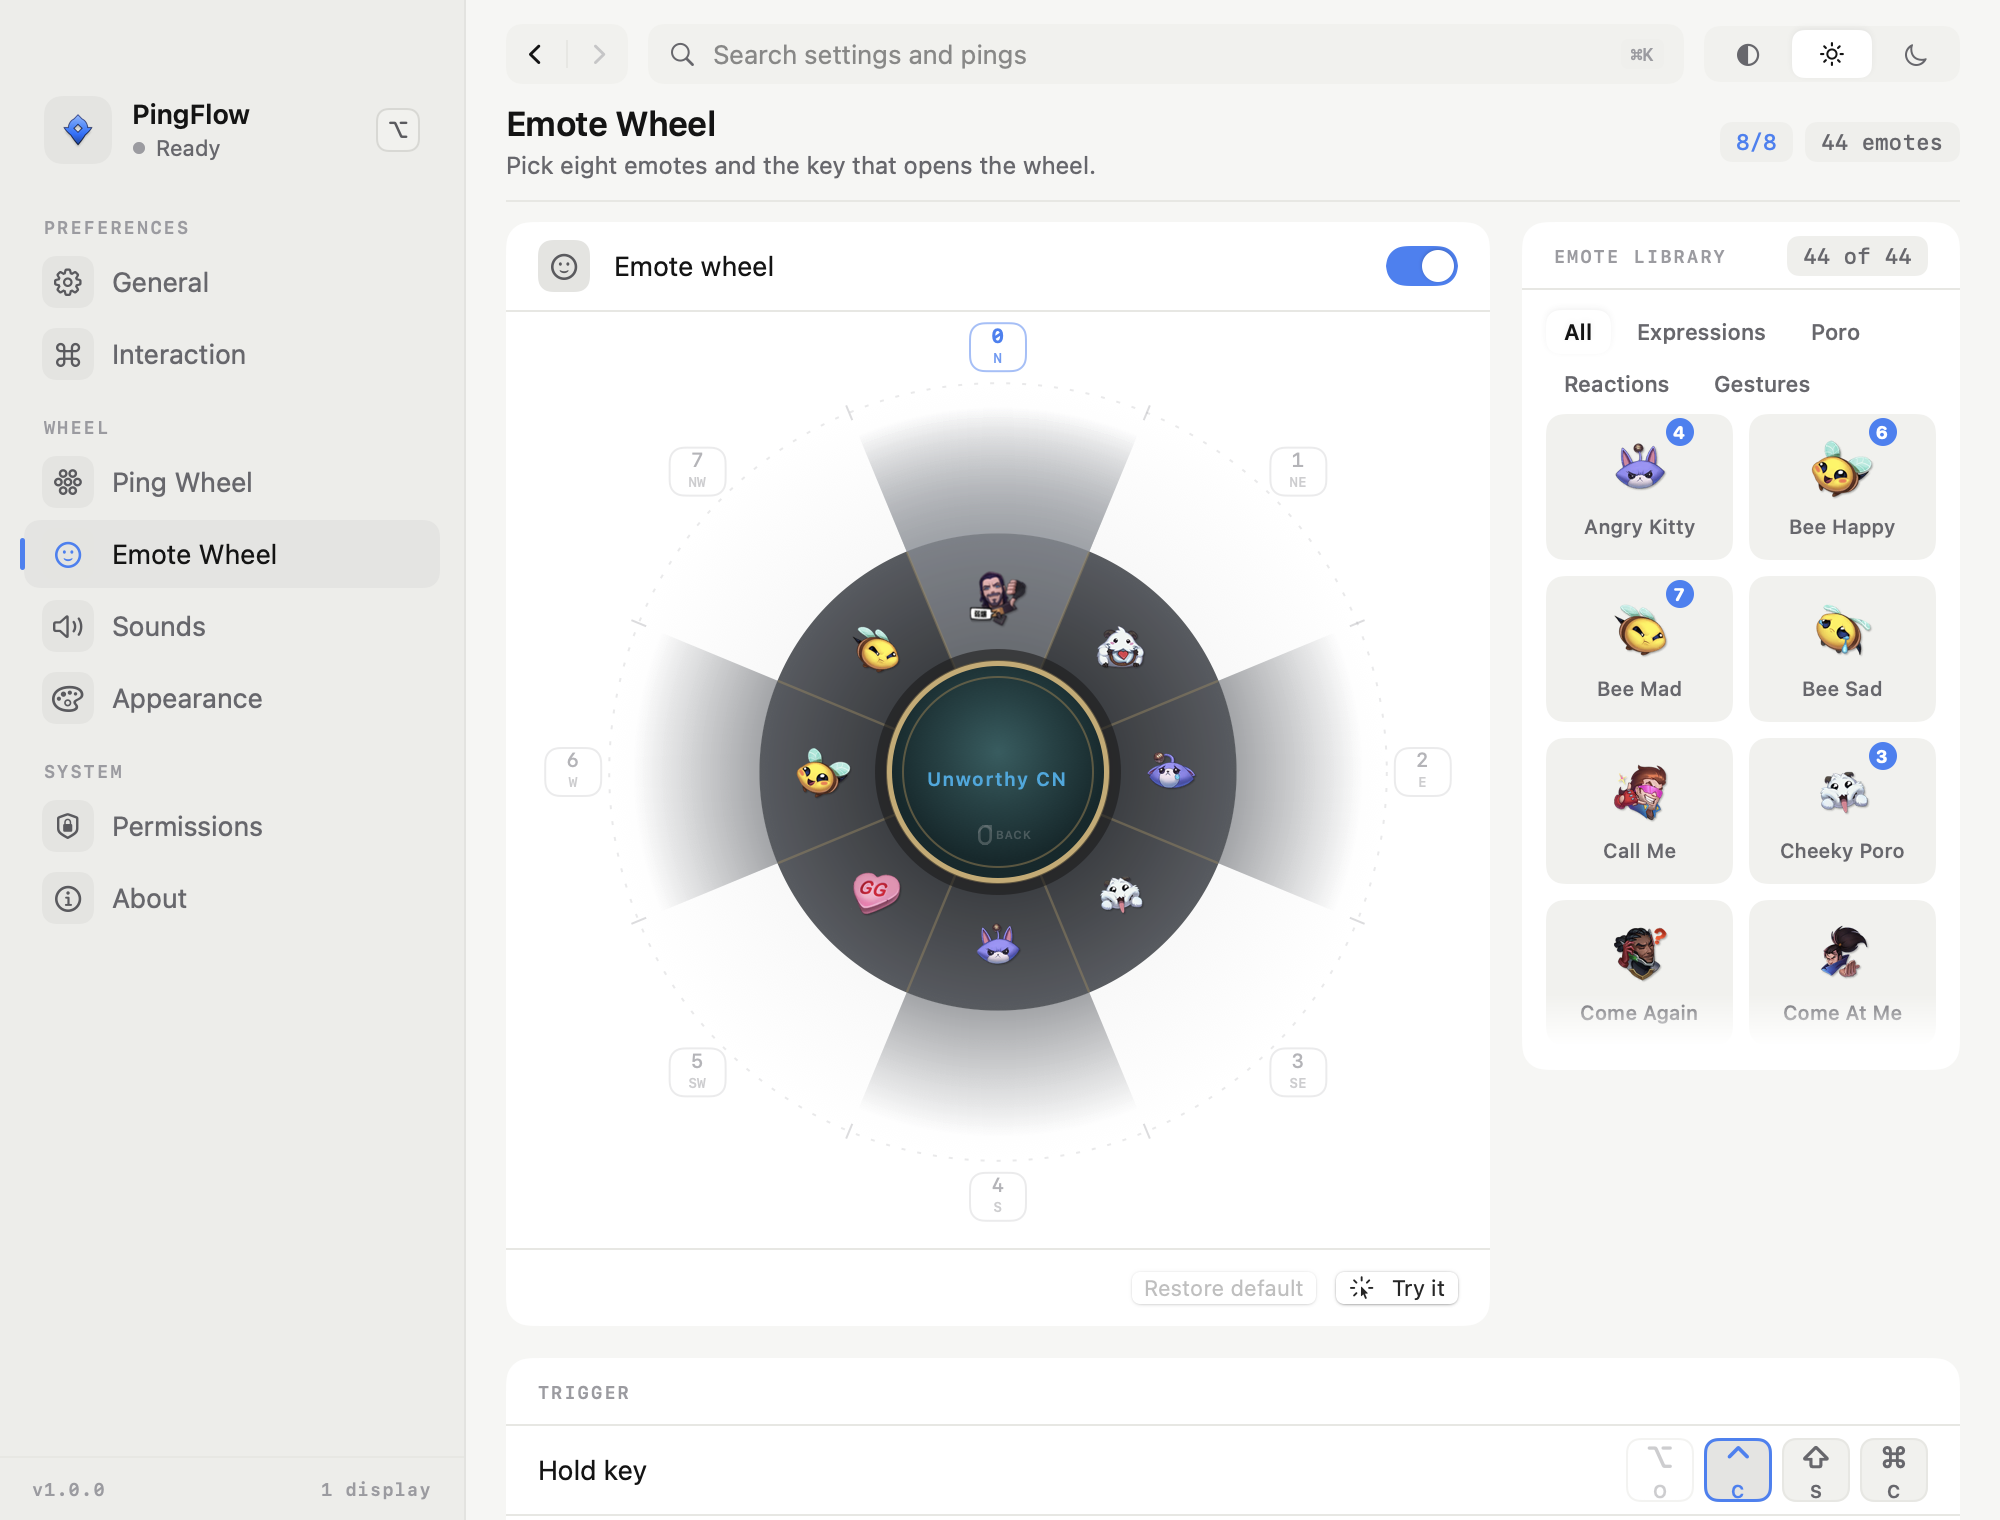
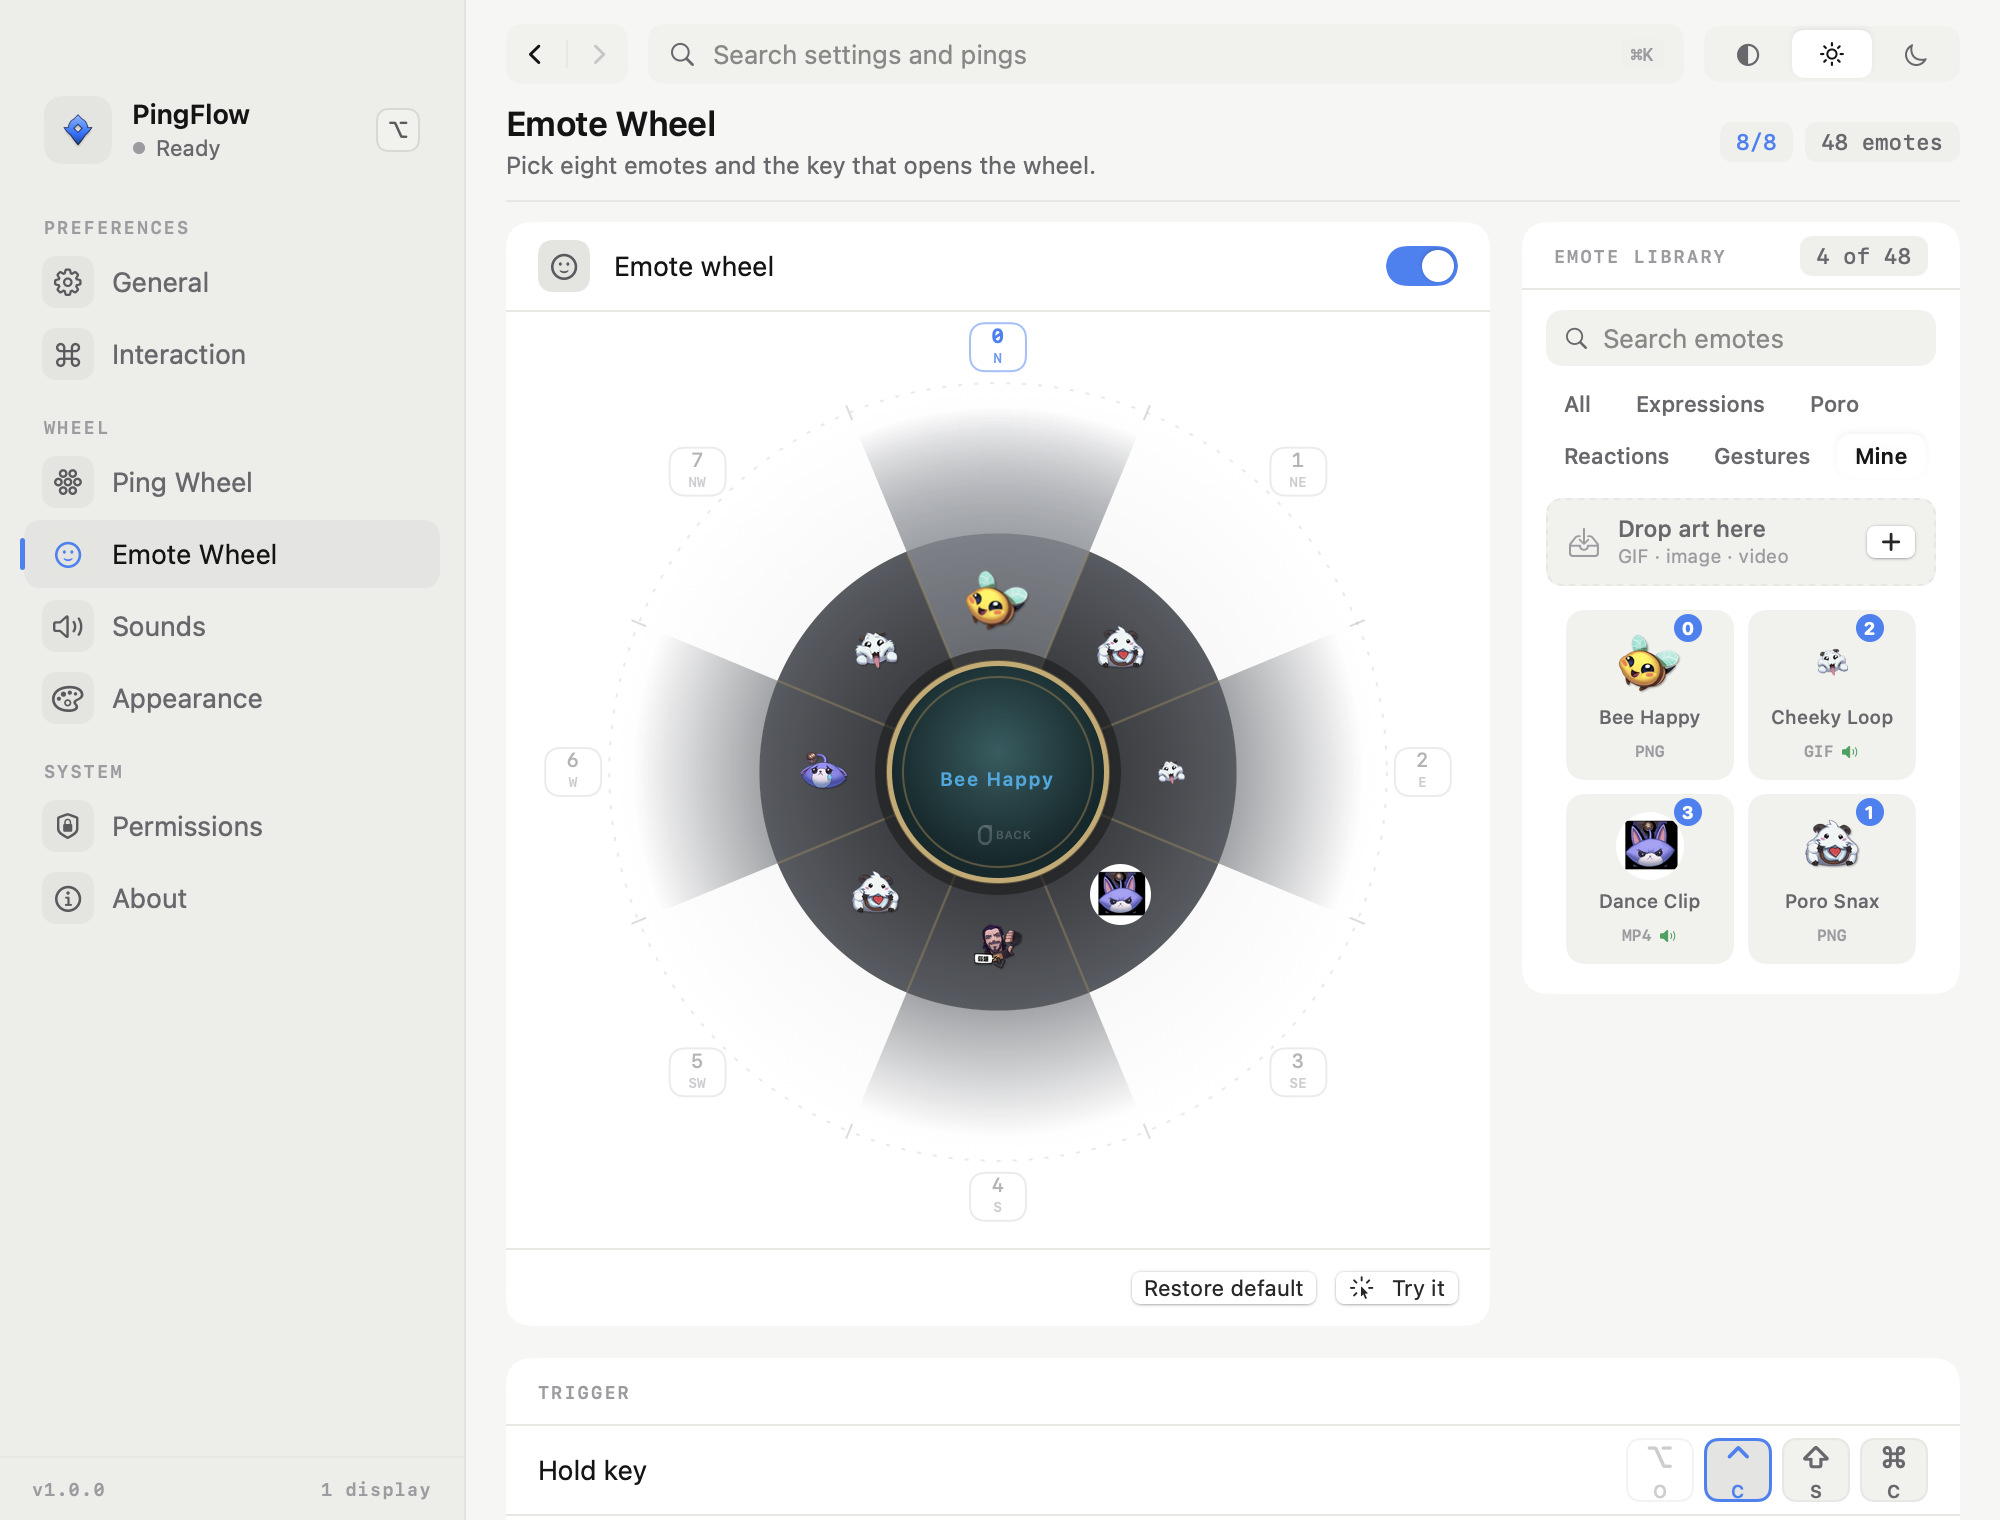
docs: tell the story of an imported emote
The feature landed without a page in the README, and the app's own inventory still
counted only the shipped art: the About rail said 44 emotes while the wheel could
draw 48, and search had no word that reached the library.

Add a "Your own emotes" section covering what a drop becomes and where it lives,
count imports in the About rail and the page header, make the library searchable,
and re-render the emote wheel shot from the bundle that ships them.

diff --git a/Sources/PingFlowKit/UI/Settings/AboutPane.swift b/Sources/PingFlowKit/UI/Settings/AboutPane.swift
@@ -6,6 +6,7 @@ import SwiftUI
 /// a generic about box.
 struct AboutPane: View {
     @EnvironmentObject private var store: SettingsStore
+    @EnvironmentObject private var library: EmoteLibrary
     @State private var reduceMotion = SettingsRootView.isReduceMotion
 
     private var versionText: String { "\(AppInfo.version) (\(AppInfo.build))" }
@@ -86,7 +87,10 @@ struct AboutPane: View {
     private var statsRail: some View {
         HStack(spacing: 0) {
             stat("\(PingDefinition.all.count)", "Pings")
-            stat("\(EmoteDefinition.all.count)", "Emotes")
+            // The wheel can draw the shipped art and whatever the person dropped, so the page
+            // counts both — and says which half arrived after the download.
+            stat("\(EmoteDefinition.all.count + library.imported.count)", "Emotes")
+            stat("\(library.imported.count)", "Imported")
             stat("\(sliceCount)", "Wheel slots")
             stat("\(soundCount)", "Sounds")
         }

diff --git a/Sources/PingFlowKit/UI/Settings/SettingsPane.swift b/Sources/PingFlowKit/UI/Settings/SettingsPane.swift
@@ -257,6 +257,9 @@ enum SettingsCatalog {
                 keywords: "emote sound audio", destination: .pane(.emoteWheel), ping: nil),
             Hit(id: "emoteClick", title: "Centre emote", subtitle: "The emote in the hub of the wheel",
                 keywords: "emote hub centre click", destination: .pane(.emoteWheel), ping: nil),
+            Hit(id: "emoteLibrary", title: "Emote library", subtitle: "Drop a gif, an image or a clip to make one",
+                keywords: "import drop custom own gif video image png sound audio mp3 wav m4a voice rename delete library",
+                destination: .pane(.emoteWheel), ping: nil),
             Hit(id: "dimUnhoveredIcons", title: "Dim unhovered icons", subtitle: "The slice you pick lights up",
                 keywords: "dim highlight icon hover", destination: .pane(.pingWheel), ping: nil),
             Hit(id: "showCentreLabel", title: "Centre label", subtitle: "The ping's name in the hub",

diff --git a/Tests/PingFlowTests/SettingsChromeTests.swift b/Tests/PingFlowTests/SettingsChromeTests.swift
@@ -95,6 +95,15 @@ final class SettingsChromeTests: XCTestCase {
         XCTAssertTrue(SettingsCatalog.results(query: "nothing at all like this", scope: .all).isEmpty)
     }
 
+    func testAnImportIsFindableByWhatWasDropped() {
+        // The library is the only place a person can make an emote, so the words they would type
+        // after dropping a file have to reach it.
+        for query in ["gif", "drop a video", "import sound"] {
+            XCTAssertTrue(SettingsCatalog.results(query: query, scope: .all).contains { $0.id == "emoteLibrary" },
+                          "\(query) should reach the emote library")
+        }
+    }
+
     func testCategoryScopeHidesSettingsThatAreNotPings() {
         let found = SettingsCatalog.results(query: "ping", scope: .category(.vision))
         XCTAssertTrue(found.allSatisfy { $0.ping != nil })

diff --git a/Sources/PingFlowKit/Core/EmoteImport.swift b/Sources/PingFlowKit/Core/EmoteImport.swift
@@ -40,8 +40,9 @@ enum EmoteImportError: Error, Equatable, Sendable {
 /// Everything here blocks, so callers run it off the main thread: give it a folder that already
 /// belongs to the new emote and it writes the art plus a poster into it.
 enum EmoteImporter {
-    /// Art is never kept bigger than this on its long side. The wheel draws 48 pt icons and the
-    /// overlay at most 220 pt, so anything larger only costs decode time and memory.
+    /// Art is never kept bigger than this on its long side. The wheel icon is 48 pt at its
+    /// reference size and 72 pt at the largest the slider allows, and the shipped emotes are
+    /// 128 px textures, so anything larger only costs decode time and memory.
     static let maxMediaSide = 256
     static let maxGIFFrames = 40
     static let maxVideoSeconds = 6.0

diff --git a/Sources/PingFlowKit/UI/Settings/SettingsRootView.swift b/Sources/PingFlowKit/UI/Settings/SettingsRootView.swift
@@ -446,7 +446,7 @@ private struct HeaderStats: View {
                            tone: permissions.isGranted ? .success : .danger)
             case .pane(.about):
                 ValuePlate("\(PingDefinition.all.count) pings")
-                ValuePlate("\(EmoteDefinition.all.count) emotes")
+                ValuePlate("\(engine.library.entries.count) emotes")
             case .ping(let id):
                 let definition = PingDefinition.definition(for: id)
                 ValuePlate(definition.category.displayName)

diff --git a/Sources/PingFlowKit/UI/Settings/EmoteWheelPane.swift b/Sources/PingFlowKit/UI/Settings/EmoteWheelPane.swift
@@ -155,7 +155,7 @@ struct EmoteWheelPane: View {
     // MARK: - The library
 
     private var libraryCard: some View {
-        SectionCard("Emote library",
+        SectionCard("Emote library", highlightID: "emoteLibrary",
                     trailing: AnyView(ValuePlate("\(filtered.count) of \(library.entries.count)"))) {
             searchField
                 .padding(.horizontal, 12)

diff --git a/README.md b/README.md
@@ -14,7 +14,8 @@
 
 > A native macOS ping wheel for League of Legends. Hold **⌥** anywhere on screen, a wheel opens
 > under the cursor, move to a slice, release **⌥** — the original ping animation plays on the overlay
-> and the original ping sound plays. Hold **⌃** for the second wheel: 44 real emotes, same gesture.
+> and the original ping sound plays. Hold **⌃** for the second wheel: 44 real emotes, same gesture —
+> and drop a gif, an image or a clip to put your own on it.
 > Nothing else about the machine changes: no Electron, no WebView, no window that stays open. The app
 > lives in the menu bar.
 
@@ -28,11 +29,12 @@ Swift 6 · SwiftUI + AppKit + Core Animation + AVFAudio · macOS 13+
 | | |
 | --- | --- |
 | [Install](#install) | first run, the one permission, the stale grant |
-| [Build and test](#build-and-test) | three commands, 77 tests |
+| [Build and test](#build-and-test) | five commands, 93 tests |
 | [The settings window](#the-settings-window) | eight pages, two wheels, no save button |
-| [Architecture](#architecture) | eight modules and why the tap is listen-only |
+| [Your own emotes](#your-own-emotes) | drop a gif, an image or a clip |
+| [Architecture](#architecture) | nine modules and why the tap is listen-only |
 | [Assets and licensing](#assets-and-licensing) | whose art this is |
-| [Checking the UI without opening it](#checking-the-ui-without-opening-it) | four headless render modes |
+| [Checking the UI without opening it](#checking-the-ui-without-opening-it) | six modes, five that write a PNG |
 
 ---
 
@@ -61,7 +63,7 @@ Swift 6 · SwiftUI + AppKit + Core Animation + AVFAudio · macOS 13+
 ```sh
 swift build                      # debug
 swift build -c release           # production
-swift test                       # 77 tests: geometry, wheel editor, scenes, input, settings
+swift test                       # 93 tests: geometry, wheel editor, scenes, input, settings, imports
 ./Support/build_app.sh               # the arm64 .app that CI releases
 ./Support/build_app.sh --universal   # same bundle with an added x86_64 slice
 ```
@@ -83,7 +85,7 @@ hairlines only run inside a card. Changes apply as you make them, so there is no
 | Preferences | General | Enable, launch at login, the menu bar and Dock icons, reset |
 | Preferences | Interaction | The wheel key, the toggle shortcut, the drag threshold, the cancel hatches |
 | Wheel | Ping Wheel | Which ping sits on each of the eight slices |
-| Wheel | Emote Wheel | Which emote sits on each of the eight slices |
+| Wheel | Emote Wheel | Which emote sits on each of the eight slices — shipped or dropped from Finder |
 | Wheel | Sounds | Master volume, mute, whether pings make a noise, the hover tick |
 | Wheel | Appearance | Wheel size, opacity, colour, and the mark's size, lifetime, intensity |
 | System | Permissions | The Accessibility grant and the retry |
@@ -95,7 +97,7 @@ already the slice's index and compass, so there is no separate slice list to kee
 
 | Ping Wheel | Emote Wheel |
 | --- | --- |
-| <img src="demo/settings-pingwheel-dark.png" width="440" alt="The Ping Wheel page in dark mode"> | <img src="demo/settings-emotewheel-light.png" width="440" alt="The Emote Wheel page in light mode"> |
+| <img src="demo/settings-pingwheel-dark.png" width="440" alt="The Ping Wheel page in dark mode"> | <img src="demo/settings-emotewheel-light.png" width="440" alt="The Emote Wheel page in light mode, with four imported emotes in the library beside the wheel"> |
 
 **Interaction** records keys natively: click, press a combination, the keycaps render, **Esc**
 cancels, and a combination macOS cannot deliver globally — or one already bound — is refused with a
@@ -108,15 +110,46 @@ intensity, each with the value written next to the handle.
 
 <img src="demo/settings-appearance-light.png" width="620" alt="The Appearance page in light mode, showing the sliders and the wheel colour swatches">
 
+## Your own emotes
+
+The Emote Wheel page takes a drop from Finder. One file makes one emote, thirty files make thirty,
+and the wheel draws them exactly like the shipped ones — a slice can be your own gif next to
+`poro_snax`.
+
+Nothing is kept at the size it arrived. The wheel's icon scales with the wheel size — 48 pt at
+League's reference size, 72 pt at the largest the slider allows — and the shipped emotes it sits
+beside are 128 px textures, so an import is normalised to that neighbourhood:
+
+| What you drop | What PingFlow keeps |
+| --- | --- |
+| A still image | A png with alpha, its long side cut to 256 px |
+| A gif | Every frame redrawn on one canvas, sampled to 40 frames without shortening the loop |
+| A video | Its first 6 seconds re-encoded small, played muted, plus a poster frame |
+| A sound | The bytes exactly as they arrived — mp3, m4a, wav, ogg, aiff, caf or flac |
+
+> [!NOTE]
+> **Sounds are copied, never converted.** Re-encoding would need a helper binary that this Mac is not
+> guaranteed to have, so the bytes you drop are the bytes that play. Drop a clip on the sound row and
+> it is refused with a sentence instead of quietly becoming something else.
+
+An import gets its own folder under `~/Library/Application Support/PingFlow/Emotes/<uuid>/`, with one
+`library.json` beside them: the app bundle is never written to, so an update cannot delete anyone's
+emotes. Dropping the same file twice is a no-op — the library compares sha256, not names — the shelf
+caps at 240 imports, and deleting one frees every slice that pointed at it.
+
+Only the slice under the pointer animates. The other seven draw their poster, so a library of forty
+imports costs no decoders until you aim at one.
+
 ## Architecture
 
-Eight things that do not know about each other's internals, joined by `PingFlowEngine`:
+Nine things that do not know about each other's internals, joined by `PingFlowEngine`:
 
 | Concern | Files | Notes |
 | --- | --- | --- |
 | Ping model | `Core/PingDefinition.swift`, `Core/EmoteDefinition.swift` | 12 pings (id, wheel label, colour, texture, sound, animation kind) and 44 emotes in four categories, each with its own texture and voice line. |
 | Wheel geometry | `Core/WheelGeometry.swift` | Pure math. Eight slices, dead zone, angle → slice, no AppKit import. |
 | Settings | `Core/Settings.swift` | One `Codable` value in `UserDefaults`; every field falls back instead of throwing. |
+| Custom emotes | `Core/EmoteKey.swift`, `Core/CustomEmote.swift`, `Core/EmoteLibrary.swift`, `Core/EmoteImport.swift`, `Core/EmoteImportQueue.swift`, `UI/Design/EmoteArtView.swift` | A slot names either a shipped id or a `custom:<uuid>`. Dropping a file normalises it off the main thread; the manifest is the only place that knows where an import's files are. |
 | Assets | `Core/AssetCatalog.swift` | Resolves `Contents/Resources/Assets` in the bundle, or `Assets/` in the repo when running from `.build`. |
 | Input | `Input/EventTap.swift`, `InputCoordinator.swift`, `Keys.swift`, `PermissionManager.swift` | A `CGEventTap` on key/mouse events, plus `AXIsProcessTrusted()` polling. |
 | Overlay | `Overlay/OverlayController.swift`, `OverlayHost.swift`, `WheelOverlayView.swift`, `WheelScene.swift`, `PingWheelView.swift`, `PingFxContainerView.swift` | Non-activating `NSPanel`s, one per screen, click-through, `canJoinAllSpaces`. |
@@ -142,6 +175,8 @@ Textures and sounds are the game's own, extracted from local League data with th
 reference repository ([darrenprx/lolPing](https://github.com/darrenprx/lolPing)), and stored under
 `Assets/textures` (29 files), `Assets/sounds` (22 files) and `Assets/emotes` (88 files — 44 icons
 with their 44 voice lines). `Assets/ATTRIBUTION.md` records provenance and ships inside the bundle.
+Emotes you import are not part of that inventory: they are written to Application Support, never into
+the bundle, and stay yours.
 
 > [!CAUTION]
 > **League of Legends art and audio belong to Riot Games.** PingFlow is not affiliated with, endorsed
@@ -151,14 +186,20 @@ with their 44 voice lines). `Assets/ATTRIBUTION.md` records provenance and ships
 
 ## Checking the UI without opening it
 
-`--render-settings`, `--render-wheel` and `--render-ping` write PNGs from an off-screen window at
-(-4000, -4000) — nothing appears on your screen, and the same view code paths run:
+`--render-settings`, `--render-wheel`, `--render-ping` and `--render-emote-wheel` write PNGs from an
+off-screen window at (-4000, -4000) — nothing appears on your screen, and the same view code paths run:
 
 ```sh
 .build/debug/PingFlow --render-settings --pane appearance --appearance dark --out /tmp/a.png
 .build/debug/PingFlow --render-wheel --wheel-size 540 --out /tmp/wheel.png
 .build/debug/PingFlow --render-ping --ping allin --size 640x520 --out /tmp/ping.png
+.build/debug/PingFlow --seed-emotes --from /tmp/files --support /tmp/demo   # imports a real library
+.build/debug/PingFlow --render-emote-wheel --slice 3 --out /tmp/emote.png   # aims at one of them
 ```
+
+`--seed-emotes` runs the drop through the same queue the settings page uses, so an import can be
+exercised — and photographed — without a pointer. `--render-emote-wheel` then draws the overlay wheel
+with that library, `--slice` being the spoke to aim at.
 
 The ping render draws a crosshair at the exact spawn point, so the animation's position is
 measurable rather than eyeballed.
@@ -166,8 +207,8 @@ measurable rather than eyeballed.
 <img src="demo/ping-allin.png" width="420" alt="The All In ping rendered off-screen, with the spawn crosshair on its exact point">
 
 `demo/` holds the six shots this file embeds; re-render each one with `--out demo/<name>.png`.
-`--live-wheel` is the fourth mode: it photographs the real overlay on screen instead of an
-off-screen copy of it.
+`--live-wheel` is the fifth mode that writes a PNG, and the only one that is not headless: it
+photographs the real overlay on screen rather than an off-screen copy of it.
 
 ---
 
